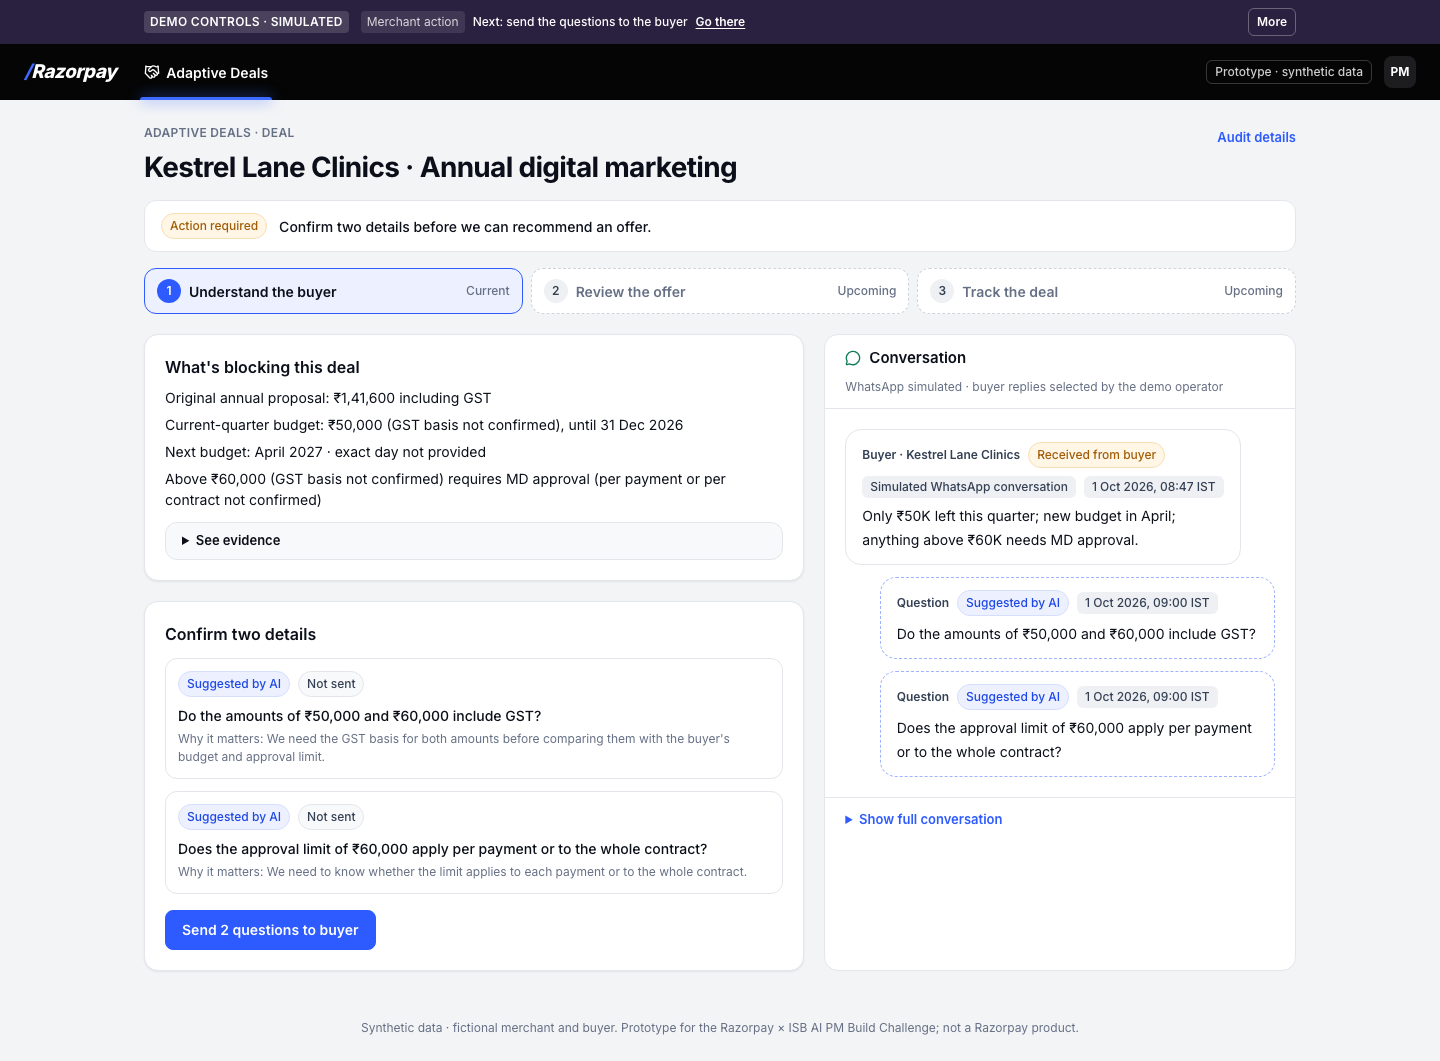
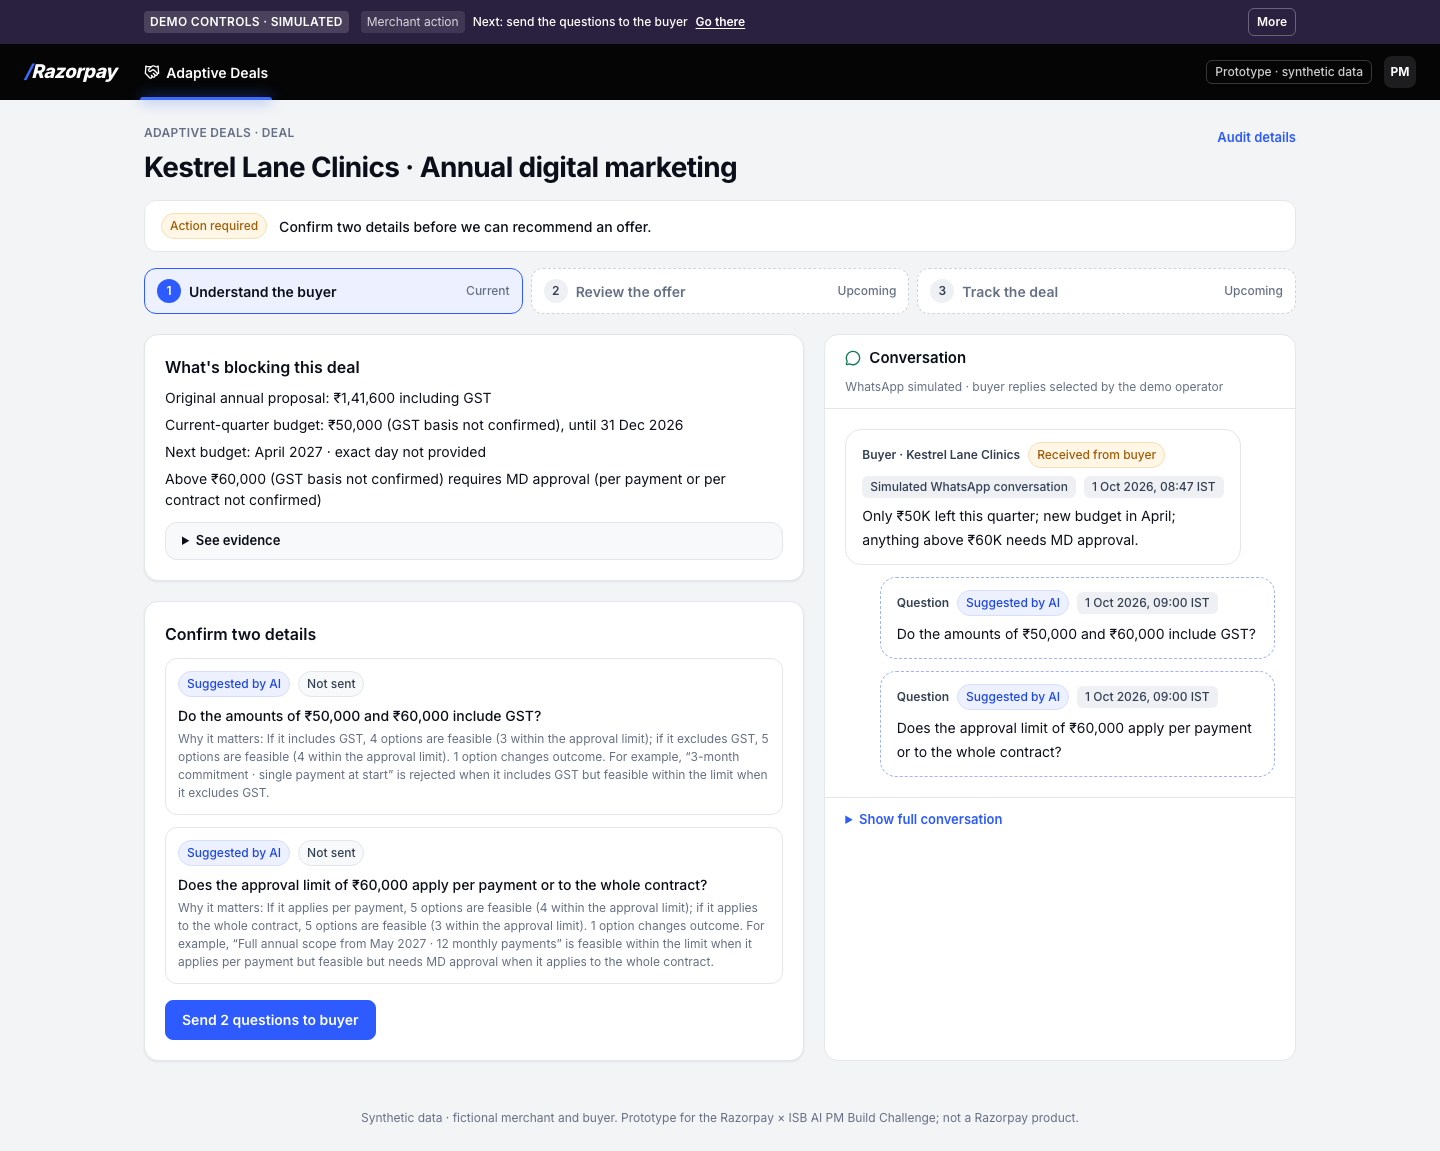
Restore clarification evidence before persona review

diff --git a/app/deals/[dealId]/understand/page.tsx b/app/deals/[dealId]/understand/page.tsx
@@ -19,11 +19,6 @@ const INTERPRET_OPTIONS: Record<string, { value: string; label: string }[]> = {
   ],
 };
 
-const QUESTION_REASON: Record<string, string> = {
-  "clar-gst": "We need the GST basis for both amounts before comparing them with the buyer's budget and approval limit.",
-  "clar-approval": "We need to know whether the limit applies to each payment or to the whole contract.",
-};
-
 /** Stage 1 · Understand the buyer (spec §4). */
 export default async function UnderstandPage(props: PageProps<"/deals/[dealId]/understand">) {
   const { dealId } = await props.params;
@@ -122,7 +117,7 @@ export default async function UnderstandPage(props: PageProps<"/deals/[dealId]/u
                       {draft?.sentAt ? <Badge tone="green">Sent · {fmtTime(draft.sentAt)}</Badge> : <Badge tone="neutral">Not sent</Badge>}
                     </div>
                     <p className="mt-2 text-[14px] font-medium text-ink">{q.question}</p>
-                    <p className="mt-1 text-[12px] text-muted">Why it matters: {QUESTION_REASON[q.id] ?? q.whyItMatters}</p>
+                    <p className="mt-1 text-[12px] text-muted">Why it matters: {q.whyItMatters}</p>
                     {reply ? (
                       <div className="mt-2 text-[13px] text-ink-2">
                         Buyer replied: <span className="font-medium text-ink">“{reply.text}”</span>

diff --git a/playwright.config.ts b/playwright.config.ts
@@ -11,9 +11,7 @@ export default defineConfig({
   use: { baseURL: "http://localhost:3200", trace: "retain-on-failure" },
   projects: [{ name: "chromium", use: { ...devices["Desktop Chrome"] } }],
   webServer: {
-    // Turbopack's build worker cannot bind its internal local port in the managed executor.
-    // Webpack exercises the same production routes without that environment-only restriction.
-    command: "npx next build --webpack && npx next start -p 3200",
+    command: "npx next build && npx next start -p 3200",
     url: "http://localhost:3200/deals/hero",
     timeout: 300_000,
     reuseExistingServer: false,

diff --git a/docs/superpowers/plans/persona-checkpoint.md b/docs/superpowers/plans/persona-checkpoint.md
@@ -60,6 +60,13 @@ Trust prompts:
 - Can you tell where the buyer constraints came from?
 - Would you send both questions as written? What makes you hesitate?
 
+**Candidate copy change to test only after the reviewer sees the current wording:**
+
+- GST question: “We need the GST basis for both amounts before comparing them with the buyer's budget and approval limit.”
+- Approval-limit question: “We need to know whether the limit applies to each payment or to the whole contract.”
+
+Ask whether the shorter wording is easier to act on and whether it removes useful decision evidence. Do not change the product copy unless the applicant approves it from the recorded feedback.
+
 ### Persona 2 · Commercial decision
 
 **Name and role:** [Applicant to fill]  
@@ -144,4 +151,3 @@ Approve only copy wording, ordering, or visibility changes to elements that alre
 | Decision | Source comment | Exact correction | Accepted? |
 |---|---|---|---|
 | | | | |
-
